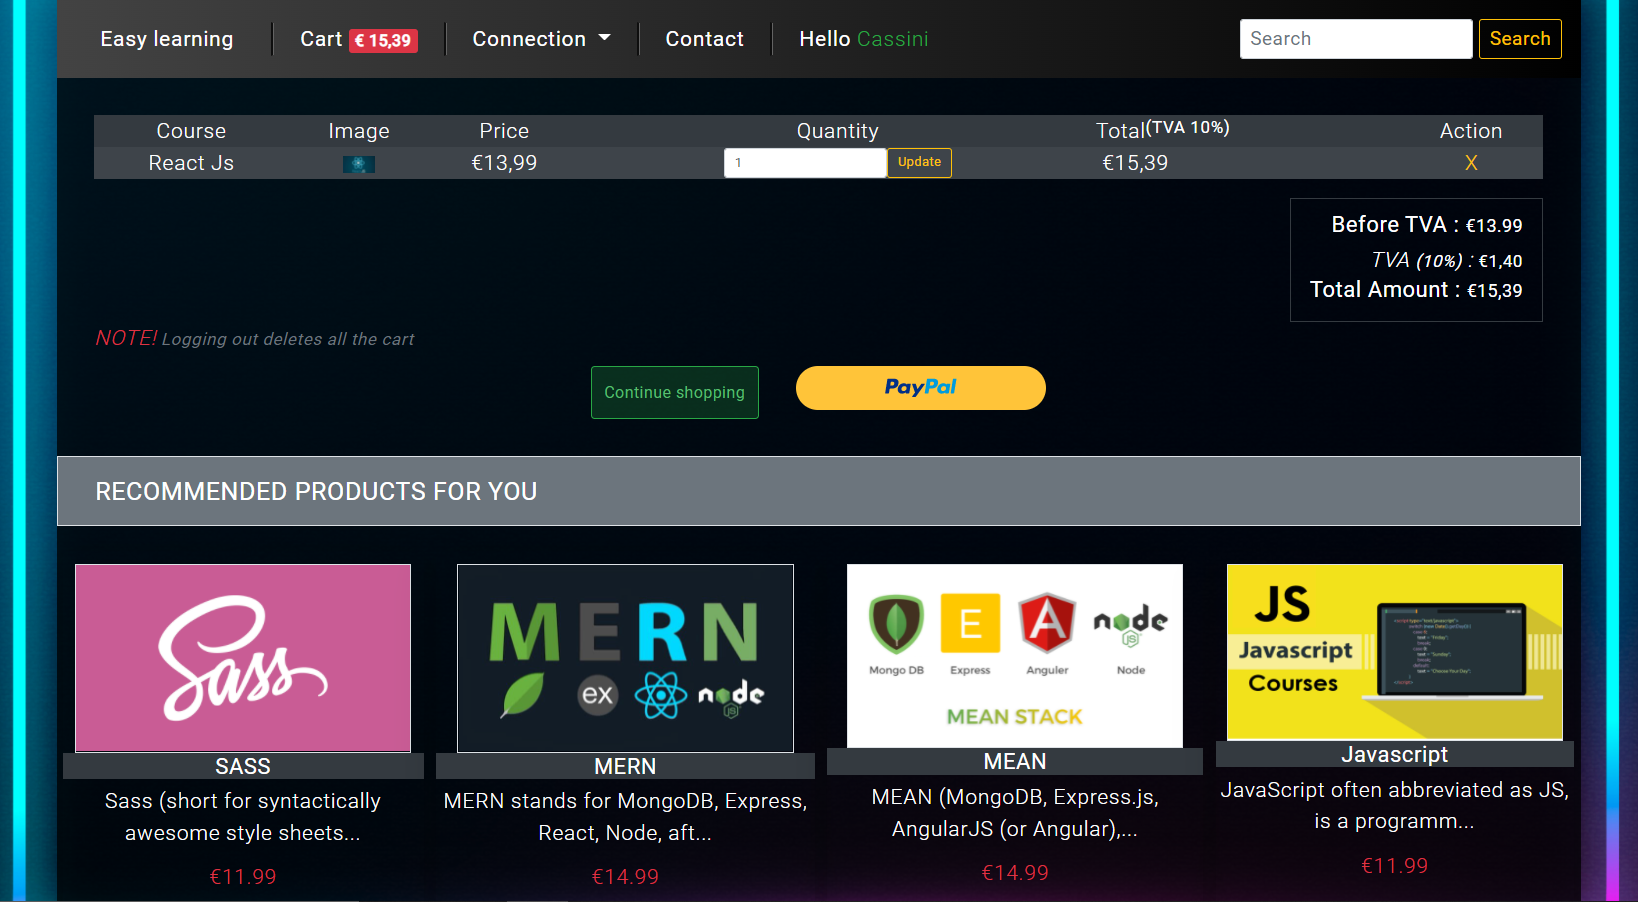
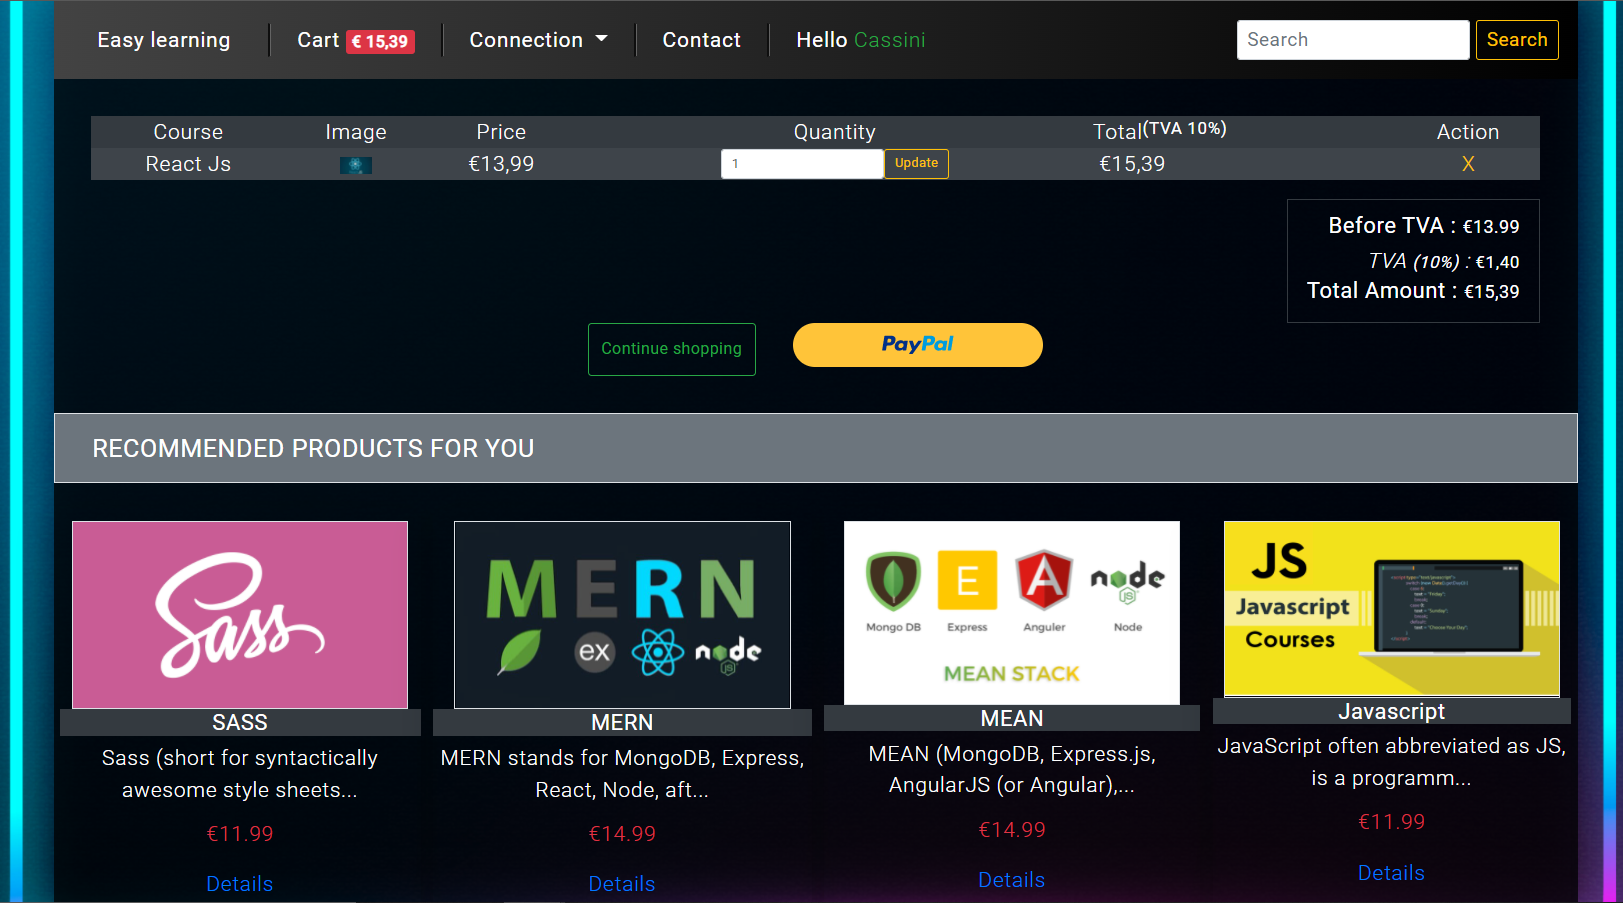
changed screenshot

diff --git a/cart.php b/cart.php
@@ -100,7 +100,7 @@
             ?>
         </div>
     </div>
-    <p class="text-secondary text-left"><i><small><span class='text-danger'>NOTE!</span> Logging out deletes all the cart</small></i></p>
+    <!-- <p class="text-secondary text-left"><i><small><span class='text-danger'>NOTE!</span> Logging out deletes all the cart</small></i></p> -->
     <div class="d-flex m-auto">
         <button type="submit" onclick="window.location.href='index.php'" class="btn btn-lg btn-outline-success mr-5">Continue shopping</button>
         <!-- show paypal btton only when logged in -->
